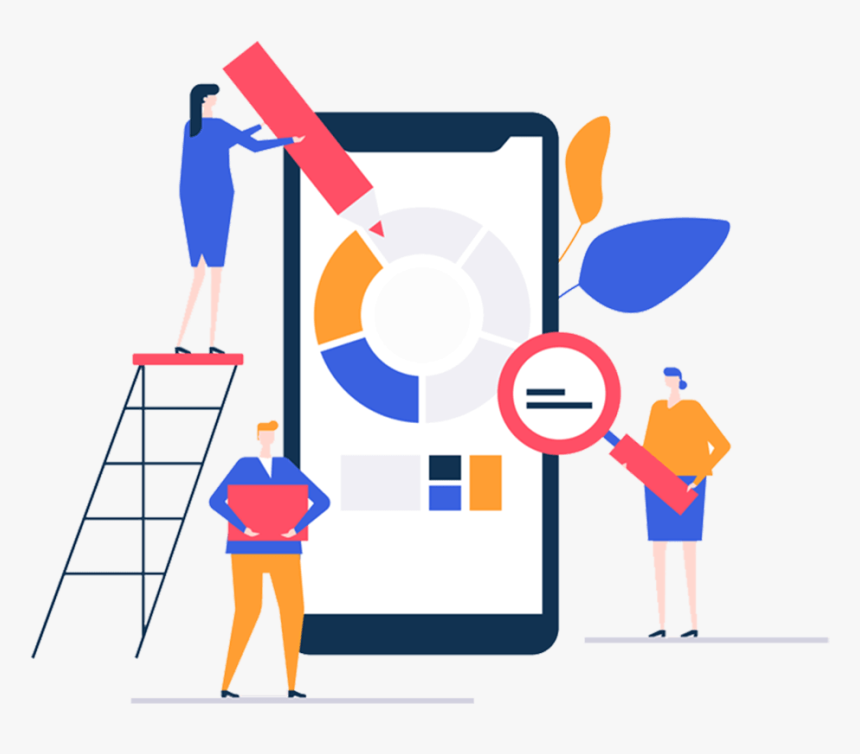
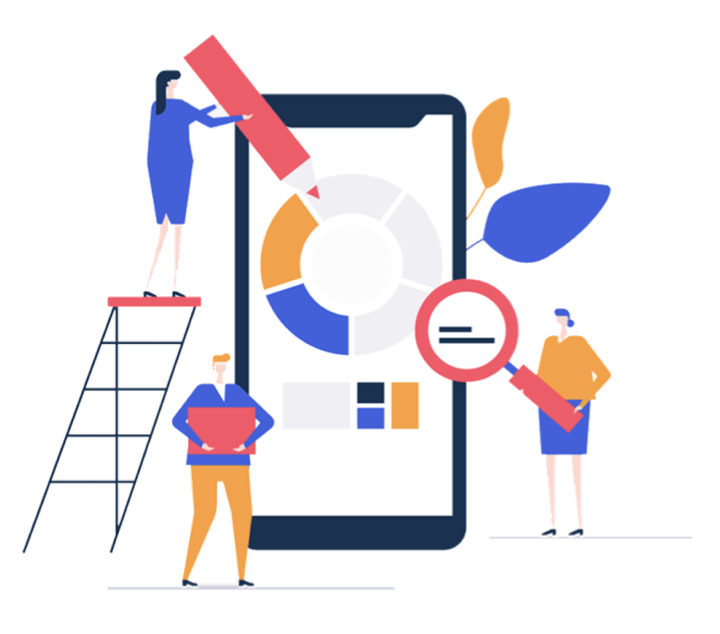
design with assets done, time to mess everything up with background and fonts

diff --git a/style.css b/style.css
@@ -31,10 +31,13 @@ body {
   font-weight: bold;
 }
 
+.graphic {
+  text-align: center;
+}
+
 .graphic img {
   height: auto;
-  width: 100%;
-  padding: 80px 80px;
+  width: 90%;
 }
 
 .intro #user-name {
@@ -169,6 +172,7 @@ td+td {
 }
 /*Bootcamp cards styling*/
 
+/*Remote option section*/
 .remote {
   display: flex;
   flex-direction: column;
@@ -202,3 +206,46 @@ td+td {
   width: 100%;
   text-align: justify;
 }
+/*Remote option section*/
+
+/*About section*/
+.about {
+  width: 50%;
+  margin: 0 auto;
+  margin-top: 80px;
+  display: flex;
+  flex-direction: column;
+  text-align: center;
+  align-items: center;
+}
+
+.about #logo {
+  width: 30%;
+  height: auto;
+  margin-bottom: 20px;
+  margin-top: 50px;
+}
+
+.about #lewagon {
+  width: 30%;
+}
+
+.about p {
+  width: 70%;
+  margin: 10px auto;
+  margin-bottom: 20px;
+}
+
+.about #qr {
+  width: 50%;
+}
+
+.about .motto {
+  width: 80%;
+  margin: 0 auto;
+  font-size: 50px;
+  font-weight: bold;
+  padding: 80px 0;
+
+}
+/*About section*/

diff --git a/index.html b/index.html
@@ -15,7 +15,7 @@
       <h1>How much can I make?</h1>
     </div>
     <div class="graphic">
-      <img src="images/working_man.png">
+      <img src="images/graphic.png">
     </div>
     <div class="container-sm no-bg intro">
       <h3>Hey <span id='user-name'>Tiantian</span>!</h3>
@@ -1685,6 +1685,14 @@
     <h3>ONSITE OR REMOTE</h3>
     <h3 class="subtitle">Your choice!</h3>
     <p class="description">If you are unable to join on-site bootcamp in our campus, you have the option to start remotely. For more details, please get in touch with our community manager.</p>
+  </div>
+  <div class="about">
+    <img id='logo' src="images/logo.png">
+    <img id='lewagon' src="images/lewagon.png">
+    <p>Le Wagon brings you the skills and entrepreneurial mindset you need to thrive. Now and in the future.</p>
+    <p>Follow us on WeChat:</p>
+    <img id="qr" src='images/qr.png'>
+    <h2 class="motto">Change your life, learn to code.</h2>
   </div>
 </div>
 <script src='index.js'></script>
